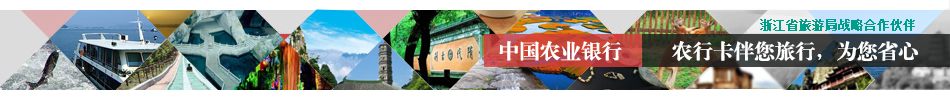
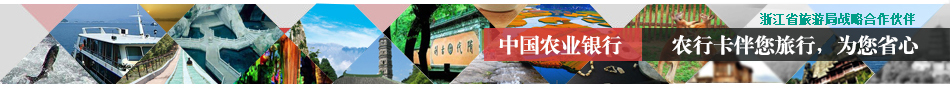
修改密码

diff --git a/WEB/theme/default/css/Show.css b/WEB/theme/default/css/Show.css
@@ -11,7 +11,7 @@
 {
     display:inline-block;
     width:950px;
-    height:110px;
+    height:95px;
     background:url("/theme/default/image/newversion/bottombg.png");
     background-repeat:no-repeat;
     background-position:bottom;

diff --git a/DAL/Dijieshe/DALDJTourGroup.cs b/DAL/Dijieshe/DALDJTourGroup.cs
@@ -39,7 +39,7 @@ namespace DAL
             List<Model.DJ_TourGroup> ListTg = new List<Model.DJ_TourGroup>();
             foreach (Model.DJ_Route route in list_route)
             {
-                if (route.DJ_TourGroup.BeginDate.AddDays(route.DayNo).ToShortDateString() == DateTime.Now.ToShortDateString())
+                if (route.DJ_TourGroup.BeginDate.AddDays(route.DayNo-1).ToShortDateString() == DateTime.Now.ToShortDateString())
                 {
                     ListTg.Add(route.DJ_TourGroup);
                 }
@@ -81,7 +81,7 @@ namespace DAL
             List<Model.DJ_Group_Worker> Listgw = new List<Model.DJ_Group_Worker>();
             foreach (Model.DJ_Route routeitem in ListRoute)
             {
-                if (routeitem.DJ_TourGroup.BeginDate.AddDays(routeitem.DayNo).ToShortDateString() == DateTime.Now.ToShortDateString())
+                if (routeitem.DJ_TourGroup.BeginDate.AddDays(routeitem.DayNo-1).ToShortDateString() == DateTime.Now.ToShortDateString())
                 {
                     Listgw.AddRange(routeitem.DJ_TourGroup.Workers);
                 }

diff --git a/BLL/Dijieshe/BLLDJRoute.cs b/BLL/Dijieshe/BLLDJRoute.cs
@@ -23,9 +23,10 @@ namespace BLL
             {
                 foreach (Model.DJ_Route route in tg.Routes)
                 {
-                    if (tg.BeginDate.AddDays(route.DayNo) <= time &&tg.BeginDate.AddDays(route.DayNo)>=DateTime.Now&& route.Enterprise.Id == teid)
+                    if (DateTime.Parse(tg.BeginDate.AddDays(route.DayNo - 1).ToShortDateString()) <= DateTime.Parse(time.ToShortDateString()) && DateTime.Parse(tg.BeginDate.AddDays(route.DayNo - 1).ToShortDateString())>=DateTime.Parse(DateTime.Now.ToShortDateString()) && DateTime.Parse(tg.EndDate.ToShortDateString()) >= DateTime.Parse(DateTime.Now.ToShortDateString()) && route.Enterprise.Id == teid)
                     {
-                        ListTg.Add(tg);
+                        if (new DAL.DALDJ_GroupConsumRecord().GetGroupConsumRecordByRouteId(route.Id)==null)
+                            ListTg.Add(tg);
                     }
                 }
             }

diff --git a/DiJieSheWeb/m.master.cs b/DiJieSheWeb/m.master.cs
@@ -4,11 +4,33 @@ using System.Linq;
 using System.Web;
 using System.Web.UI;
 using System.Web.UI.WebControls;
+using System.Web.Security;
+using BLL;
+using Model;
 
 public partial class m : System.Web.UI.MasterPage
 {
     protected void Page_Load(object sender, EventArgs e)
     {
-        
+        bind();
+    }
+
+    private void bind()
+    {
+        MembershipUser mu = Membership.GetUser();
+        BLLDJ_User blldj_user = new BLLDJ_User();
+        Model.TourMembership tm = new Model.TourMembership();
+        if (mu != null)
+        {
+            tm=new BLLMembership().GetMemberById((Guid)mu.ProviderUserKey);
+            if (tm is DJ_User_TourEnterprise)
+            {
+                laETName.Text = (tm as DJ_User_TourEnterprise).Enterprise.Name;
+            }
+            if (tm is DJ_User_Gov)
+            {
+                laETName.Text = (tm as DJ_User_Gov).GovDpt.Name;
+            }
+        }
     }
 }

diff --git a/DiJieSheWeb/TourEnterprise/TECheckTicket.aspx.cs b/DiJieSheWeb/TourEnterprise/TECheckTicket.aspx.cs
@@ -75,7 +75,7 @@ public partial class TourEnterprise_TECheckTicket : System.Web.UI.Page
             HiddenField hfroute = e.Item.FindControl("hfrouteId") as HiddenField;
             foreach (DJ_Route route in dj_tourgroup.Routes)
             {
-                if (dj_tourgroup.BeginDate.AddDays(route.DayNo).ToShortDateString() == DateTime.Now.ToShortDateString()&&route.Enterprise.Id==Master.CurrentTE.Id)
+                if (dj_tourgroup.BeginDate.AddDays(route.DayNo-1).ToShortDateString() == DateTime.Now.ToShortDateString()&&route.Enterprise.Id==Master.CurrentTE.Id)
                 {
                     hfroute.Value = route.Id.ToString();
                     Literal laChecked = e.Item.FindControl("laChecked") as Literal;

diff --git a/WEB/ScenicManager/CheckTicket.aspx.cs b/WEB/ScenicManager/CheckTicket.aspx.cs
@@ -482,7 +482,7 @@ public partial class ScenicManager_CheckTicket : bpScenicManager
             HiddenField hfroute = e.Item.FindControl("hfrouteId") as HiddenField;
             foreach (DJ_Route route in tourgroup.Routes)
             {
-                if (tourgroup.BeginDate.AddDays(route.DayNo).ToShortDateString() == DateTime.Now.ToShortDateString() && route.Enterprise.Id == Master.Scenic.Id)
+                if (tourgroup.BeginDate.AddDays(route.DayNo-1).ToShortDateString() == DateTime.Now.ToShortDateString() && route.Enterprise.Id == Master.Scenic.Id)
                 {
                     hfroute.Value = route.Id.ToString();
                     Literal laIsChecked = e.Item.FindControl("laIsChecked") as Literal;

diff --git a/DiJieSheWeb/TourEnterprise/TEGroupForecast.aspx.cs b/DiJieSheWeb/TourEnterprise/TEGroupForecast.aspx.cs
@@ -53,7 +53,7 @@ public partial class TourEnterprise_TEGroupForecast : System.Web.UI.Page
                 if (route.Enterprise.Id == Master.CurrentTE.Id)
                 {
                     //laArriveTime.Text = group.BeginDate.AddDays(route.DayNo).ToString("yyyy年MM月dd日")+route.BeginTime+"点";
-                    laArriveTime.Text = group.BeginDate.AddDays(route.DayNo).ToString("yyyy年MM月dd日") + "点";
+                    laArriveTime.Text = group.BeginDate.AddDays(route.DayNo-1).ToString("yyyy年MM月dd日") + "点";
                 }
             }
         }

diff --git a/BLL/Dijieshe/BLLDJTourGroup.cs b/BLL/Dijieshe/BLLDJTourGroup.cs
@@ -62,7 +62,7 @@ namespace BLL
                 DateTime dtBegin = Tg.BeginDate;
                 foreach (Model.DJ_Route route in Tg.Routes)
                 {
-                    if (dtBegin.AddDays(route.DayNo).ToShortDateString() == DateTime.Now.ToShortDateString()&&route.Enterprise.Id==TE.Id)
+                    if (dtBegin.AddDays(route.DayNo-1).ToShortDateString() == DateTime.Now.ToShortDateString()&&route.Enterprise.Id==TE.Id)
                     {
                         ListTyTg.Add(Tg);
                     }

diff --git a/DiJieSheWeb/LocalTravelAgent/LTA.master.cs b/DiJieSheWeb/LocalTravelAgent/LTA.master.cs
@@ -7,6 +7,7 @@ using System.Web.UI.WebControls;
 using System.Web.Security;
 using Model;
 using BLL;
+using System.Web.UI.HtmlControls;
 
 public partial class LocalTravelAgent_LTA : System.Web.UI.MasterPage
 {
@@ -28,6 +29,7 @@ public partial class LocalTravelAgent_LTA : System.Web.UI.MasterPage
         {
             Response.Redirect("/Login.aspx");
         }
+        (Master.FindControl("changepwd") as HtmlAnchor).HRef = "/LocalTravelAgent/ChangePwd.aspx";
         base.OnInit(e);
     }
 }

diff --git a/DiJieSheWeb/TourEnterprise/TE.master.cs b/DiJieSheWeb/TourEnterprise/TE.master.cs
@@ -7,6 +7,7 @@ using System.Web.UI.WebControls;
 using Model;
 using BLL;
 using System.Web.Security;
+using System.Web.UI.HtmlControls;
 
 public partial class TourEnterprise_TE : System.Web.UI.MasterPage
 {
@@ -35,6 +36,7 @@ public partial class TourEnterprise_TE : System.Web.UI.MasterPage
         {
             currentTE = DJ_User_TE.Enterprise;
         }
+        (Master.FindControl("changepwd") as HtmlAnchor).HRef = "/TourEnterprise/TEChangePwd.aspx";
         base.OnInit(e);
     }
 

diff --git a/DiJieSheWeb/UC/ChangePwd.ascx.cs b/DiJieSheWeb/UC/ChangePwd.ascx.cs
@@ -1,0 +1,18 @@
+using System;
+using System.Collections.Generic;
+using System.Linq;
+using System.Web;
+using System.Web.UI;
+using System.Web.UI.WebControls;
+
+public partial class UC_ChangePwd : System.Web.UI.UserControl
+{
+    protected void Page_Load(object sender, EventArgs e)
+    {
+
+    }
+    protected void ChangePassword1_ContinueButtonClick(object sender, EventArgs e)
+    {
+        Response.Redirect(Request.UrlReferrer.AbsoluteUri);
+    }
+}

diff --git a/DiJieSheWeb/TourManagerDpt/manager.master.cs b/DiJieSheWeb/TourManagerDpt/manager.master.cs
@@ -4,11 +4,16 @@ using System.Linq;
 using System.Web;
 using System.Web.UI;
 using System.Web.UI.WebControls;
+using System.Web.UI.HtmlControls;
 
 public partial class TourManagerDpt_manager : System.Web.UI.MasterPage
 {
     protected void Page_Load(object sender, EventArgs e)
     {
-
+        bind();
+    }
+    private void bind()
+    {
+        (Master.FindControl("changepwd") as HtmlAnchor).HRef = "/TourManagerDpt/ChangePwd.aspx";
     }
 }
